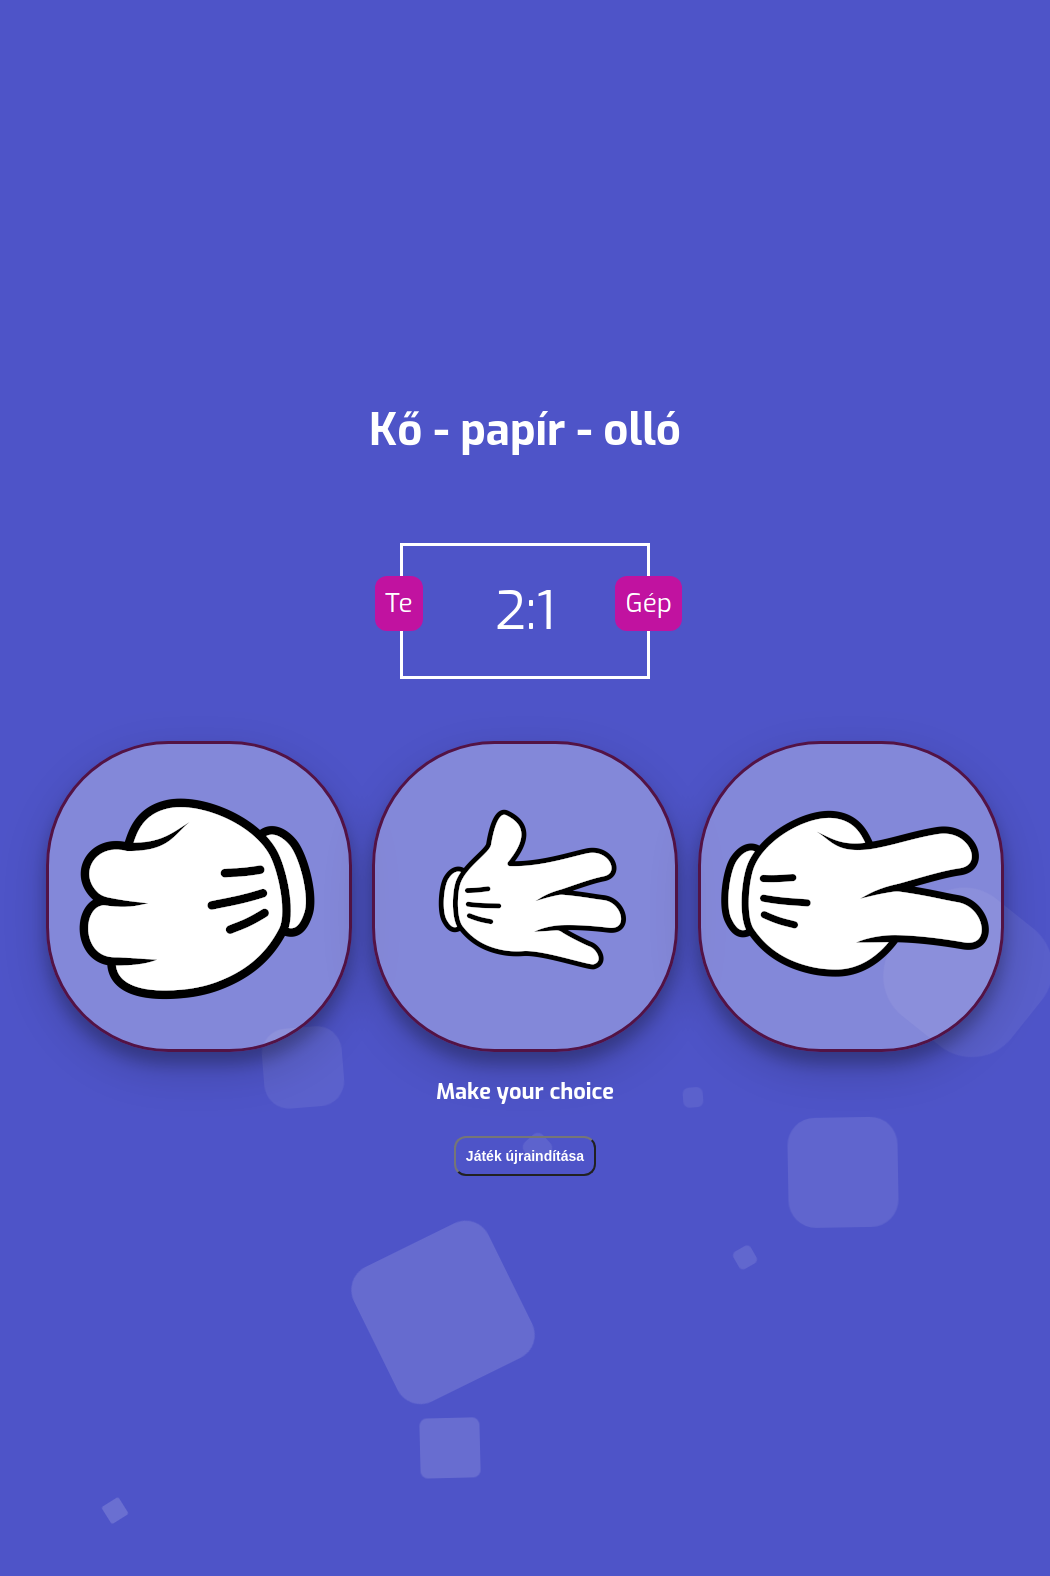
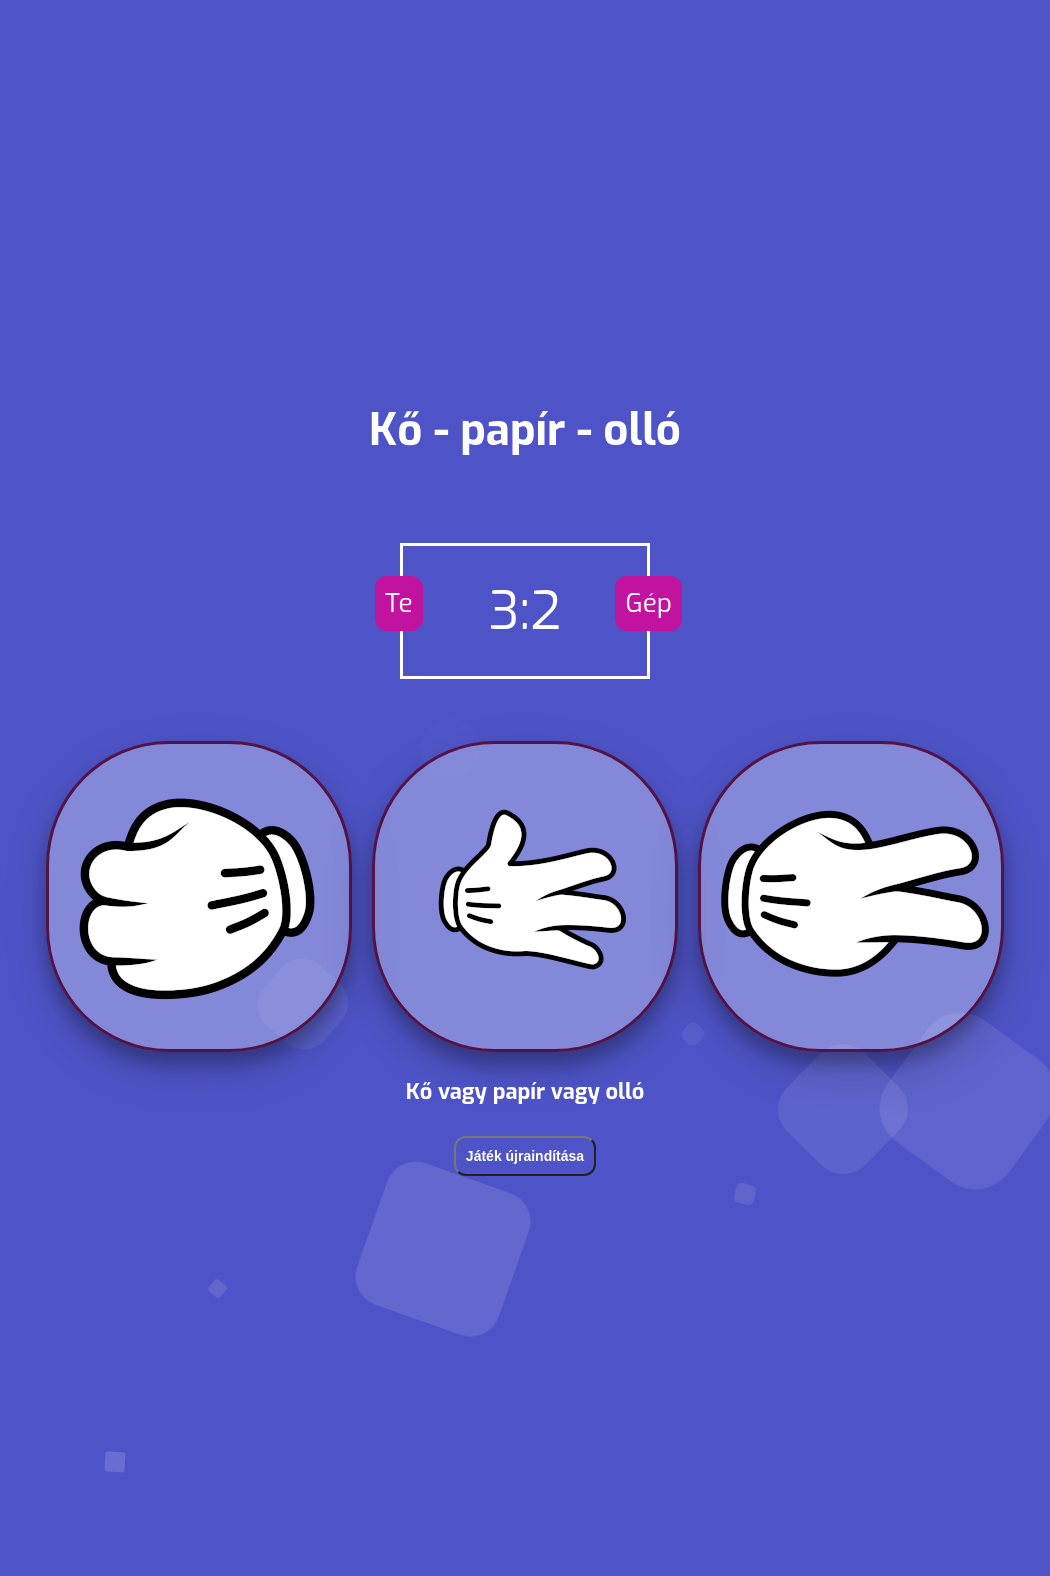
Fix small typos and formatting

diff --git a/index.html b/index.html
@@ -31,7 +31,7 @@
             <img src="kepek/ollo.png" alt="">
         </div>
     </div>
-    <h2>Make your choice</h2>
+    <h2>Kő vagy papír vagy olló</h2>
 
     <!-- model -->
     <div class="model">

diff --git a/README.md b/README.md
@@ -2,23 +2,25 @@
 > Kő papír olló projektmunka
 
 ## Table of contents
-* [General info](#general-info)
-* [Screenshots](#screenshots)
-* [Written in](#written-in)
-* [Webpage (NOT AVAIBLE YET!)](#webpageNOTAVAIBLEYET!)
-* [Status](#status)
-* [Contact](#contact)
+- [ko_papir_ollo](#ko_papir_ollo)
+  - [Table of contents](#table-of-contents)
+  - [General info](#general-info)
+  - [Screenshots](#screenshots)
+  - [Written in](#written-in)
+  - [Webpage (NOT AVAIBLE YET!)](#webpage-not-avaible-yet)
+  - [Status](#status)
+  - [Contact](#contact)
 
 ## General info
-Basic kő papír olló játék HTML, CSS, JS használatával.
+Basic kő papír olló játék HTML, CSS, JS használatával.\
 Gép ellen mérhetjuk fel tudásunkat (szerencsénket).
 
 ## Screenshots
 ![Ingame Screenshot](./screenshot.png)
 
 ## Written in
-HTML
-CSS
+HTML\
+CSS\
 JavaScript
 
 ## Webpage (NOT AVAIBLE YET!)
